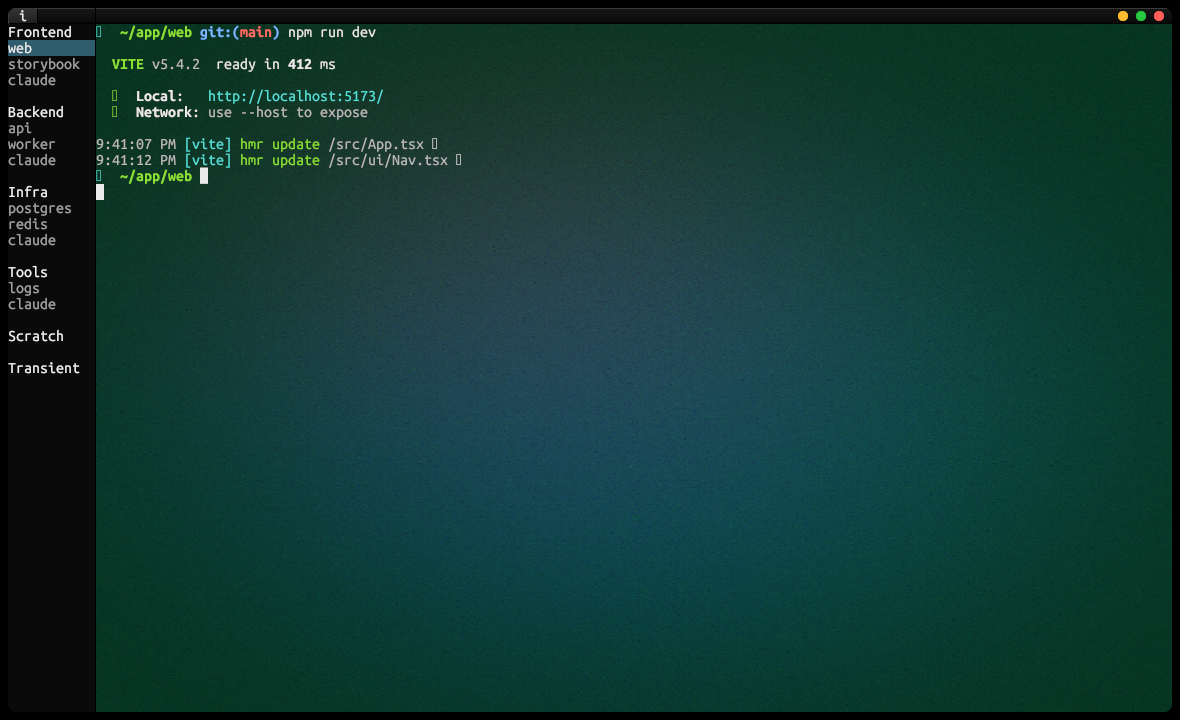
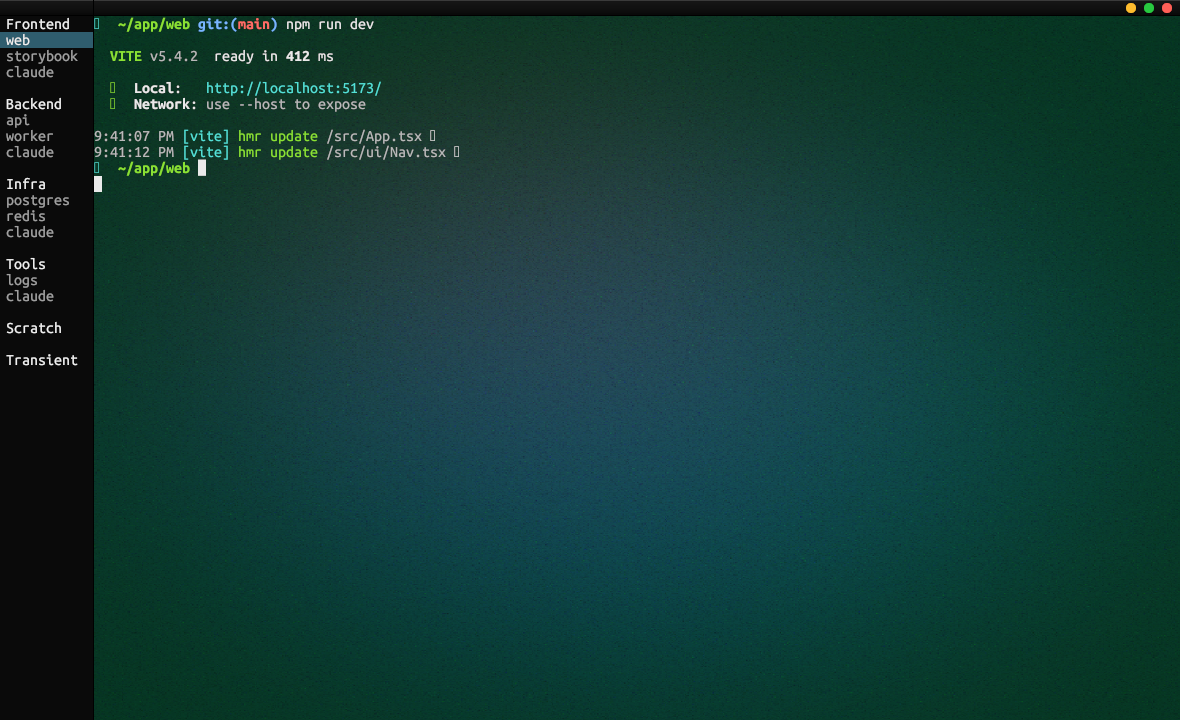
.

Changed region(s): [[0.0, 0.0, 1.0, 1.0]]

diff --git a/src/lib.rs b/src/lib.rs
@@ -525,6 +525,8 @@ enum Shortcut {
     Start,
     Stop,
     ToggleSidebar,
+    OpenConfig,
+    Quit,
 }
 
 /// Map a modified keystroke to a [`Shortcut`], or `None` to pass it through to
@@ -533,13 +535,15 @@ enum Shortcut {
 /// * **macOS** uses ⌘ (Command), like every native mac app: ⌘C copy, ⌘V paste,
 ///   ⌘T new tab, ⌘W close, ⌘↑/⌘↓ select previous/next tree node, ⌘←/⌘→
 ///   collapse/expand the selected group, ⌘R run/start, ⌘. stop, ⌘B toggle the
-///   sidebar. ⌘ never collides with the shell's own Ctrl- control codes, so all
-///   of these are safe to claim.
+///   sidebar, ⌘, open the config file, ⌘Q quit. ⌘ never collides with the
+///   shell's own Ctrl- control codes, so all of these are safe to claim.
 /// * **Elsewhere** there is no ⌘, so the terminal convention Ctrl+Shift is used
 ///   (plain Ctrl+C etc. must stay free for the shell): Ctrl+Shift+C/V/T/W for
 ///   copy/paste/new/close, Ctrl+Shift+↑/↓ select previous/next node,
 ///   Ctrl+Shift+←/→ collapse/expand the selected group, Ctrl+Shift+B toggle the
-///   sidebar, Ctrl+Shift+S start, Ctrl+Shift+X stop.
+///   sidebar, Ctrl+Shift+S start, Ctrl+Shift+X stop, Ctrl+Shift+, open the
+///   config file, Ctrl+Shift+Q quit. (Shift+`,` reports as `<` on many layouts,
+///   so both are accepted.)
 fn match_shortcut(mods: ModifiersState, key: &Key) -> Option<Shortcut> {
     let ch = |name: &str| matches!(key, Key::Character(c) if c.eq_ignore_ascii_case(name));
     #[cfg(target_os = "macos")]
@@ -561,6 +565,8 @@ fn match_shortcut(mods: ModifiersState, key: &Key) -> Option<Shortcut> {
             Key::Named(NamedKey::ArrowRight) => Shortcut::Expand,
             _ if ch("b") => Shortcut::ToggleSidebar,
             _ if ch("r") => Shortcut::Start,
+            _ if ch(",") => Shortcut::OpenConfig,
+            _ if ch("q") => Shortcut::Quit,
             _ => return None,
         })
     }
@@ -581,6 +587,9 @@ fn match_shortcut(mods: ModifiersState, key: &Key) -> Option<Shortcut> {
             _ if ch("b") => Shortcut::ToggleSidebar,
             _ if ch("s") => Shortcut::Start,
             _ if ch("x") => Shortcut::Stop,
+            // Shift+`,` is `<` on most layouts; accept either.
+            _ if ch(",") || ch("<") => Shortcut::OpenConfig,
+            _ if ch("q") => Shortcut::Quit,
             _ => return None,
         })
     }
@@ -1040,15 +1049,15 @@ const SEL: u32 = 0x2f_5d_6e; // selection fill (white text stays readable)
 // bevels, a subtle vertical gradient, compact fixed heights, dense layout,
 // left-aligned titles.
 // The sidebar auto-sizes to its content: the longest label plus this fixed
-// right margin (see `State::sidebar_w`). It is never narrower than the header
-// info button. A toggle (⌘B / Ctrl+Shift+B) hides it entirely (width 0).
+// right margin (see `State::sidebar_w`). It is never narrower than `WBTN_W`. A
+// toggle (⌘B / Ctrl+Shift+B) hides it entirely (width 0).
 const SIDEBAR_MARGIN: usize = 16; // fixed gap right of the longest label
 const SIDEBAR_PAD_L: usize = 6; // small left inset before each tree label
 const HEADER_H: usize = 16; // title bar; one content row tall (= cell_h at FONT_PX) for uniform heights
 const ROW_H: usize = 20; // context-menu item height
 const CTX_W: usize = 124; // context-menu width
 const RPANEL_W: usize = 252; // right inspector pane width
-const WBTN_W: usize = 30; // info-button width (the latched "i" on the left)
+const WBTN_W: usize = 30; // minimum sidebar width (also the old info-button width)
 const TLIGHT_CELL: usize = 18; // per-dot hit cell for the window controls
 const TLIGHT_R: f32 = 5.0; // traffic-light dot radius (px); diameter 10 in a 16px row
 const EDGE: f64 = 5.0; // borderless-window resize-grip thickness
@@ -1517,7 +1526,6 @@ impl State {
                 &mut self.renderer,
                 &rows,
                 sel,
-                self.inspector,
                 sw,
             );
         }
@@ -1609,11 +1617,11 @@ impl State {
             .find(|l| self.sessions.contains_key(l))
     }
 
-    /// Logical width of the sidebar pane: `0` when hidden, otherwise the
-    /// longest label plus a fixed right margin (never narrower than the header
-    /// info button). All chrome geometry and hit-testing derive from this, so
-    /// the pane grows and shrinks to fit its content and vanishes when toggled
-    /// off.
+    /// Logical width of the sidebar pane: `0` when hidden, otherwise the left
+    /// label inset plus the longest label plus a fixed right margin (never
+    /// narrower than the header info button). All chrome geometry and
+    /// hit-testing derive from this, so the pane grows and shrinks to fit its
+    /// content and vanishes when toggled off.
     fn sidebar_w(&self) -> usize {
         if !self.sidebar_visible {
             return 0;
@@ -1625,7 +1633,7 @@ impl State {
             .map(|row| row.name.chars().count() * self.renderer.cell_w)
             .max()
             .unwrap_or(0);
-        label_px.max(WBTN_W) + SIDEBAR_MARGIN
+        (SIDEBAR_PAD_L + label_px).max(WBTN_W) + SIDEBAR_MARGIN
     }
 
     /// Grid size for the terminal area (window minus sidebar, header and —
@@ -1858,6 +1866,41 @@ impl App {
         }
     }
 
+    /// Open the workspace/config file in a new scratch tab, editing it in
+    /// `nano`. The terminal equivalent of an editor's ⌘, — there is no separate
+    /// settings UI, the workspace file *is* the config. The tab is a normal
+    /// dynamic leaf, so ⌘W closes it.
+    fn open_config(&mut self) {
+        let path = self.ws_path.clone();
+        let dir = path
+            .parent()
+            .map(Path::to_path_buf)
+            .unwrap_or_else(home_dir);
+        let command = format!("nano {}", shell_quote(&path));
+        let node = {
+            let Some(st) = self.state.as_mut() else { return };
+            let group = st.tree.group_for_new(st.selected);
+            let node = st.tree.push(
+                Some(group),
+                "config".to_string(),
+                Kind::Leaf {
+                    workdir: dir,
+                    command,
+                },
+                true,
+            );
+            st.tree.nodes[group].expanded = true;
+            st.selected = node;
+            node
+        };
+        // Spawn the shell and run the editor in it (the planner does both).
+        self.start(node);
+        self.save_workspace();
+        if let Some(st) = &self.state {
+            st.request_redraw();
+        }
+    }
+
     /// Tear down the selected session. Dynamic (scratch) leaves are removed
     /// from the tree; spec leaves stay so they can be re-started.
     fn close_selected(&mut self) {
@@ -1944,6 +1987,9 @@ impl App {
 
     /// Toggle the right inspector pane (and reflow the terminal into the
     /// freed/used space). Hiding it drops keyboard focus back to the PTY.
+    /// Currently unwired — the info button that drove it was removed; kept so
+    /// re-adding the trigger is a one-liner.
+    #[allow(dead_code)]
     fn toggle_inspector(&mut self) {
         if let Some(st) = self.state.as_mut() {
             st.inspector = !st.inspector;
@@ -2523,20 +2569,16 @@ fn draw_sidebar(
     r: &mut Renderer,
     rows: &[Row],
     selected: NodeId,
-    inspector: bool,
     sidebar_w: usize,
 ) {
     fill_rect(buf, pw, ph, 0, 0, sidebar_w, ph, STRIP_BG);
     // Title-bar band, shared with the terminal header so the top strip reads as
-    // one continuous bar; holds the latched info toggle.
+    // one continuous bar.
     vgradient(buf, pw, ph, 0, 0, sidebar_w, HEADER_H, HEAD_HI, HEAD_LO);
     fill_rect(buf, pw, ph, 0, 0, sidebar_w, 1, BEVEL_LT);
     fill_rect(buf, pw, ph, 0, HEADER_H - 1, sidebar_w, 1, BEVEL_DK);
     // 1px divider between the pane and the terminal.
     fill_rect(buf, pw, ph, sidebar_w - 1, 0, 1, ph, BEVEL_DK);
-    // Info toggle: the same kind of text button as the window controls, latched
-    // (drawn pressed) while the inspector pane is open.
-    draw_button(buf, pw, ph, r, info_btn(), "i", inspector, true);
 
     // The tree is just monospace text on the terminal's own cell grid: one row
     // per node at the terminal line height, columns on the cell width, drawn
@@ -2553,12 +2595,25 @@ fn draw_sidebar(
         }
         let is_sel = row.id == selected;
         if is_sel {
+            // The selection band still spans the full pane; only the label text
+            // is inset, so the highlight stays edge-to-edge.
             fill_rect(buf, pw, ph, 0, y, sidebar_w - 1, rh, SEL);
         }
-        // No indentation or markers: every node sits flush against the left
-        // edge. Hierarchy reads from colour alone — groups full-ink, leaves dim.
+        // No markers: hierarchy reads from colour alone — groups full-ink,
+        // leaves dim. Labels carry a small left inset (`SIDEBAR_PAD_L`) so the
+        // text doesn't sit flush against the pane edge.
         let color = if is_sel || row.is_group { INK } else { INK_DIM };
-        draw_text(buf, pw, ph, r, 0, y, sidebar_w, &row.name, color);
+        draw_text(
+            buf,
+            pw,
+            ph,
+            r,
+            SIDEBAR_PAD_L,
+            y,
+            sidebar_w.saturating_sub(SIDEBAR_PAD_L),
+            &row.name,
+            color,
+        );
     }
 }
 
@@ -2777,12 +2832,6 @@ fn win_btns(pw: usize) -> [Rect; 3] {
     ]
 }
 
-/// The latched info "i" button, flush to the window's top-left — mirrors the
-/// window controls on the right. Drawn pressed while the inspector is shown.
-fn info_btn() -> Rect {
-    (0, 0, WBTN_W, HEADER_H)
-}
-
 /// `[title, command, directory]` boxes inside the inspector pane, in
 /// `Field::ALL` order (so `Field::index` is the row index here).
 fn field_rects(pw: usize, cell_h: usize) -> [Rect; 3] {
@@ -2891,6 +2940,12 @@ fn home_dir() -> PathBuf {
     std::env::var_os("HOME")
         .map(PathBuf::from)
         .unwrap_or_else(|| PathBuf::from("/"))
+}
+
+/// Single-quote a path for safe interpolation into a shell command line
+/// (handles spaces and other metacharacters; embedded `'` is escaped).
+fn shell_quote(p: &Path) -> String {
+    format!("'{}'", p.to_string_lossy().replace('\'', "'\\''"))
 }
 
 /// Which workspace file to use: the first CLI argument if given (a leading
@@ -3279,15 +3334,7 @@ impl ApplicationHandler<UserEvent> for App {
                             }
                             return;
                         }
-                        // 3. The sidebar "info" toggle (only live while the
-                        // sidebar — which hosts the button — is shown).
-                        if self.state.as_ref().unwrap().sidebar_visible
-                            && hit(info_btn(), mx, my)
-                        {
-                            self.toggle_inspector();
-                            return;
-                        }
-                        // 4. Inspector pane: focus a field, else defocus.
+                        // 3. Inspector pane: focus a field, else defocus.
                         if self.state.as_ref().unwrap().inspector
                             && mx >= panel_x(pw) as f64
                         {
@@ -3305,15 +3352,14 @@ impl ApplicationHandler<UserEvent> for App {
                             }
                             return;
                         }
-                        // 5. Borderless-window resize grips (real window edge,
-                        // so full dims + raw window-space pointer).
-                        if let Some(dir) = resize_dir(fw, fh, rmx, rmy) {
+                        // 4. Borderless-window resize grips.
+                        if let Some(dir) = resize_dir(pw, ph, mx, my) {
                             if let Some(w) = &self.state.as_ref().unwrap().window {
                                 let _ = w.drag_resize_window(dir);
                             }
                             return;
                         }
-                        // 6. The header row (anywhere else): double-click
+                        // 5. The header row (anywhere else): double-click
                         // toggles maximize/restore (like a native title bar);
                         // a single click drags the window.
                         if my < HEADER_H as f64 {
@@ -3337,7 +3383,7 @@ impl ApplicationHandler<UserEvent> for App {
                             }
                             return;
                         }
-                        // 7. Sidebar: a click selects the row; a group click
+                        // 6. Sidebar: a click selects the row; a group click
                         // also folds/unfolds it (there is no separate expander).
                         let rows = self.state.as_ref().unwrap().tree.rows();
                         if let Some((node, is_group)) =
@@ -3353,7 +3399,7 @@ impl ApplicationHandler<UserEvent> for App {
                             st.request_redraw();
                             return;
                         }
-                        // 8. Terminal area: start a text selection.
+                        // 7. Terminal area: start a text selection.
                         let tr = term_right(pw, self.state.as_ref().unwrap().inspector);
                         let sw = self.state.as_ref().unwrap().sidebar_w();
                         if mx >= sw as f64
@@ -3467,6 +3513,8 @@ impl ApplicationHandler<UserEvent> for App {
                             }
                         }
                         Shortcut::ToggleSidebar => self.toggle_sidebar(),
+                        Shortcut::OpenConfig => self.open_config(),
+                        Shortcut::Quit => event_loop.exit(),
                     }
                     return;
                 }
@@ -3893,6 +3941,9 @@ mod tests {
     fn shortcuts_map_per_platform() {
         let c = Key::Character("c".into());
         let dot = Key::Character(".".into());
+        let q = Key::Character("q".into());
+        let comma = Key::Character(",".into());
+        let lt = Key::Character("<".into()); // Shift+`,` on most layouts
         let cmd = ModifiersState::SUPER;
         let ctrl_shift = ModifiersState::CONTROL | ModifiersState::SHIFT;
 
@@ -3904,10 +3955,16 @@ mod tests {
             // ⌘ is the mac modifier; Ctrl+Shift is not.
             assert_eq!(match_shortcut(cmd, &c), Some(Shortcut::Copy));
             assert_eq!(match_shortcut(cmd, &dot), Some(Shortcut::Stop));
+            assert_eq!(match_shortcut(cmd, &q), Some(Shortcut::Quit));
+            assert_eq!(match_shortcut(cmd, &comma), Some(Shortcut::OpenConfig));
             assert_eq!(match_shortcut(ctrl_shift, &c), None);
         } else {
             // Ctrl+Shift is the modifier elsewhere; ⌘ doesn't exist.
             assert_eq!(match_shortcut(ctrl_shift, &c), Some(Shortcut::Copy));
+            assert_eq!(match_shortcut(ctrl_shift, &q), Some(Shortcut::Quit));
+            // Both `,` and its shifted `<` open the config.
+            assert_eq!(match_shortcut(ctrl_shift, &comma), Some(Shortcut::OpenConfig));
+            assert_eq!(match_shortcut(ctrl_shift, &lt), Some(Shortcut::OpenConfig));
             assert_eq!(match_shortcut(cmd, &c), None);
         }
     }

diff --git a/README.md b/README.md
@@ -3,13 +3,10 @@ manyterm
 
 Terminal workspaces for multitasking devs.
 
-- A terminal with vertical tabs, and organised groups for different projects.
-- Where the terminal layout is a simple text file.
-- That you can open/close cross-device.
+- Store your terminal layout in a text file, that you can commit into git and open the same on your other devices
+- Re-open the same Claude code instances for different projects
 
-Put your Claude Code tabs next to each project, and multi-task seamlessly. 
-
-![manyterm running a full-stack workspace](demo/screenshot.png)
+Manyterm running a full-stack workspace](demo/screenshot.png)
 
 `demo/terminal.workspace`:
 